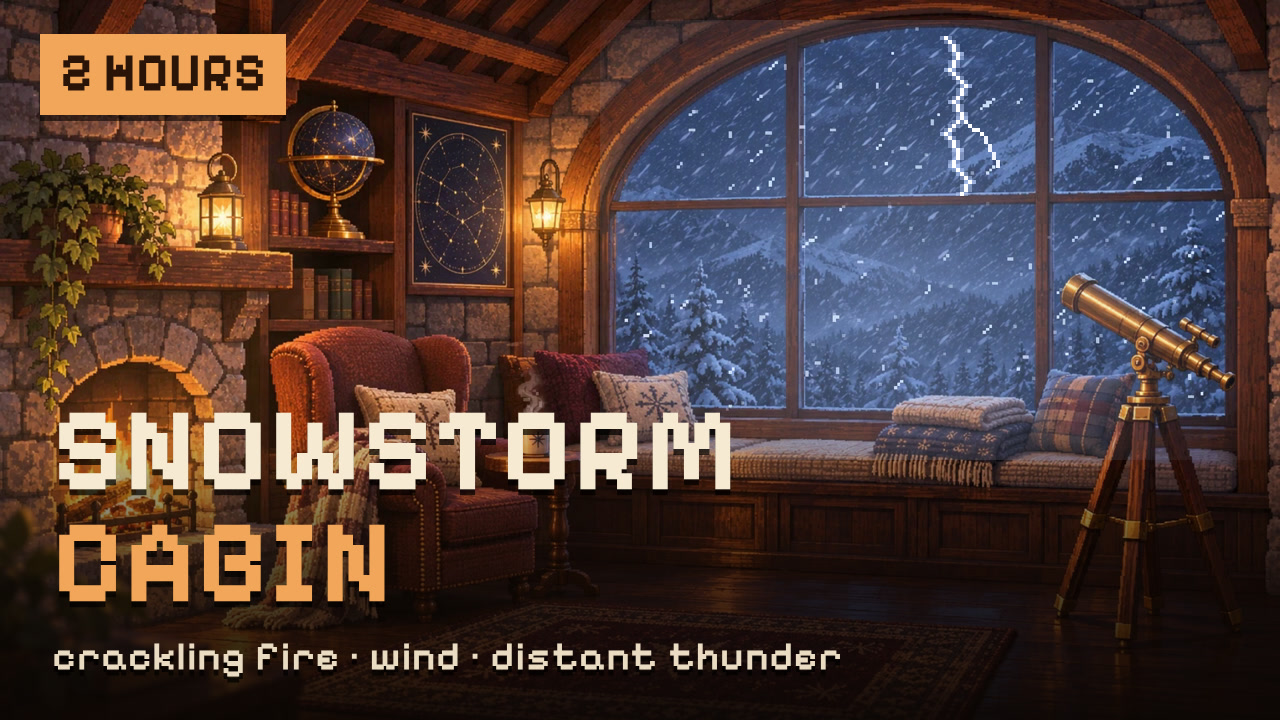
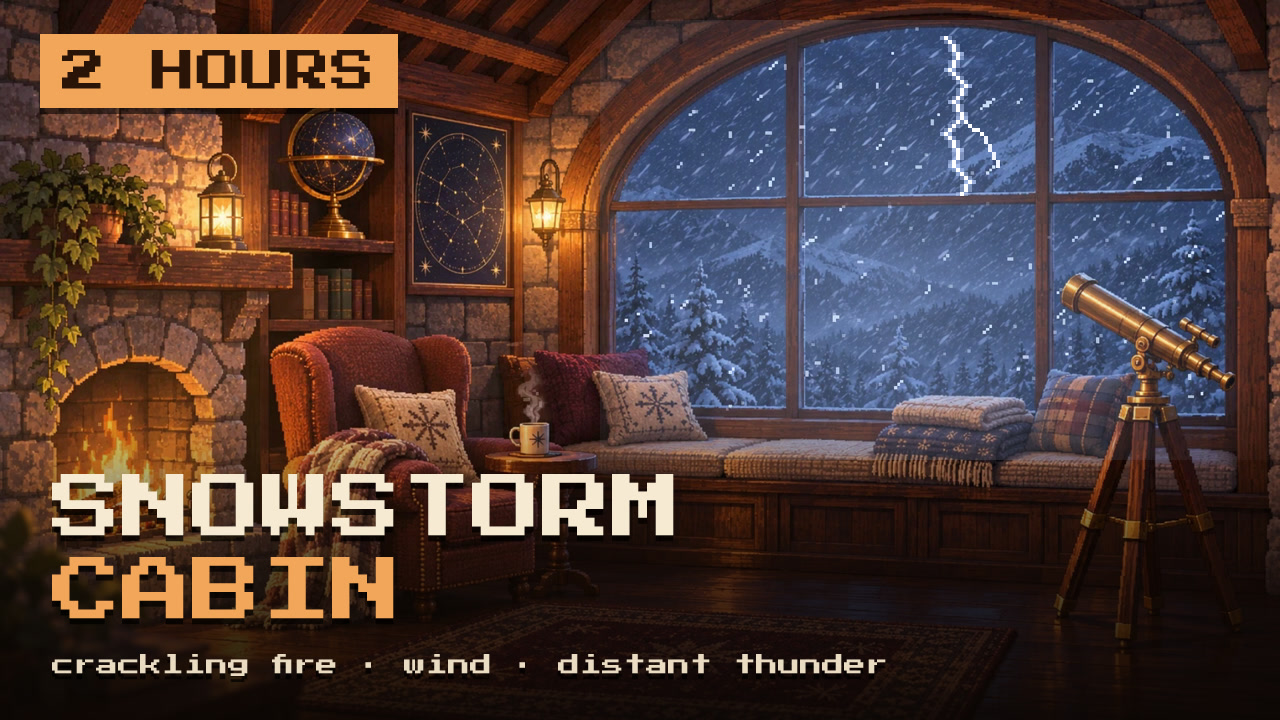
Thumbnails: legible pixel font for the badge, titles and sound line
The previous pixel font made 2 read as 8, B as G and C as O at small
sizes. All three thumbnails re-rendered.

Claude-Session: https://claude.ai/code/session_01VuAxVZNSoXwkeJokJbncck

Changed region(s): [[0.0312, 0.55, 0.6875, 0.9472], [0.0312, 0.0306, 0.3125, 0.1833]]

diff --git a/channel/thumbnail-template/thumb.html b/channel/thumbnail-template/thumb.html
@@ -1,14 +1,14 @@
 <!doctype html><html><head><meta charset="utf-8">
-<link rel="stylesheet" href="https://fonts.googleapis.com/css2?family=Pixelify+Sans:wght@600;700&display=swap">
+<link rel="stylesheet" href="https://fonts.googleapis.com/css2?family=Pixelify+Sans:wght@600;700&family=Press+Start+2P&family=Silkscreen:wght@400;700&display=swap">
 <style>
 html,body{margin:0;width:1280px;height:720px;overflow:hidden;background:#0a0d14}
 .bg{position:absolute;left:0;top:0;width:1280px;height:720px;background-repeat:no-repeat}
 canvas{position:absolute;left:0;top:0;width:1280px;height:720px;image-rendering:pixelated}
 .shade{position:absolute;left:0;top:0;width:1280px;height:720px;background:radial-gradient(ellipse 820px 400px at 300px 150px,rgba(8,8,10,.86) 0%,rgba(8,8,10,.6) 45%,rgba(8,8,10,0) 100%)}
-.txt{position:absolute;left:44px;top:132px;font-family:"Pixelify Sans",monospace;color:#f6ead2;text-shadow:0 6px 0 rgba(0,0,0,.7)}
-.big{font-size:104px;line-height:.95;font-weight:700}
-.sub{font-size:36px;font-weight:600;color:#eadcc2;margin-top:14px;letter-spacing:.03em}
-.badge{position:absolute;top:30px;left:40px;font-family:"Pixelify Sans",monospace;font-weight:700;font-size:50px;color:#22140a;padding:6px 18px 10px;box-shadow:0 6px 0 rgba(0,0,0,.55)}
+.txt{position:absolute;left:44px;top:150px;font-family:"Pixelify Sans",monospace;color:#f6ead2;text-shadow:0 6px 0 rgba(0,0,0,.7)}
+.big{font-family:"Press Start 2P",monospace;font-size:70px;line-height:1.18}
+.sub{font-family:"Press Start 2P",monospace;font-size:22px;line-height:1.3;color:#eadcc2;margin-top:18px}
+.badge{position:absolute;top:30px;left:40px;font-family:"Press Start 2P",monospace;font-size:44px;line-height:1;letter-spacing:.02em;color:#1c1008;padding:16px 22px 14px;box-shadow:0 6px 0 rgba(0,0,0,.55)}
 </style></head><body>
 <div class="bg" id="bg"></div><canvas id="c" width="320" height="180"></canvas><div class="shade"></div>
 <div class="badge" id="badge">2 HOURS</div>

diff --git a/cozy-cabin/youtube/thumb.html b/cozy-cabin/youtube/thumb.html
@@ -1,15 +1,15 @@
 <!doctype html><html><head><meta charset="utf-8">
-<link rel="stylesheet" href="https://fonts.googleapis.com/css2?family=Pixelify+Sans:wght@600;700&display=swap">
+<link rel="stylesheet" href="https://fonts.googleapis.com/css2?family=Pixelify+Sans:wght@600;700&family=Press+Start+2P&family=Silkscreen:wght@400;700&display=swap">
 <style>
 html,body{margin:0;width:1280px;height:720px;overflow:hidden;background:#0a0d18}
 .bg{position:absolute;inset:0;background:url(bg.png) center/cover}
 canvas{position:absolute;left:0;top:0;width:1280px;height:720px;image-rendering:pixelated}
 .shade{position:absolute;left:0;right:0;bottom:0;height:330px;background:linear-gradient(to top,rgba(10,6,4,.92) 0%,rgba(10,6,4,.7) 45%,rgba(10,6,4,0) 100%)}
 .txt{position:absolute;left:52px;bottom:40px;font-family:"Pixelify Sans",monospace;color:#f6ead2;text-shadow:0 6px 0 rgba(0,0,0,.7)}
-.big{font-size:118px;line-height:.95;font-weight:700;letter-spacing:.01em}
+.big{font-family:"Press Start 2P",monospace;font-size:70px;line-height:1.18}
 .big span{color:#f2a65a}
-.sub{font-size:40px;font-weight:600;color:#eadcc2;margin-top:14px;letter-spacing:.03em}
-.badge{position:absolute;top:34px;left:40px;font-family:"Pixelify Sans",monospace;font-weight:700;font-size:54px;color:#2a1408;background:#f2a65a;padding:6px 20px 10px;box-shadow:0 6px 0 rgba(0,0,0,.55)}
+.sub{font-family:"Press Start 2P",monospace;font-size:22px;line-height:1.3;color:#eadcc2;margin-top:18px}
+.badge{position:absolute;top:34px;left:40px;font-family:"Press Start 2P",monospace;font-size:44px;line-height:1;letter-spacing:.02em;color:#2a1408;background:#f2a65a;padding:16px 22px 14px;box-shadow:0 6px 0 rgba(0,0,0,.55)}
 </style></head><body>
 <div class="bg"></div><canvas id="c" width="320" height="180"></canvas><div class="shade"></div>
 <div class="badge">2 HOURS</div>

diff --git a/channel/thumbnail-template/shot.js b/channel/thumbnail-template/shot.js
@@ -2,7 +2,7 @@ const { chromium } = require('playwright');
 (async () => {
   const [dir, out, cfg] = process.argv.slice(2);
   const b = await chromium.launch(); const p = await b.newPage({ viewport: { width: 1280, height: 720 } });
-  await p.goto('file://' + dir + '/thumb.html#' + encodeURIComponent(cfg)); await p.waitForTimeout(2500);
-  if (!(await p.evaluate(() => document.fonts.check('700 104px "Pixelify Sans"')))) throw new Error('font');
+  await p.goto('file://' + dir + '/thumb.html#' + encodeURIComponent(cfg)); await p.waitForTimeout(1500); await p.evaluate(() => Promise.all(['44px "Press Start 2P"', '700 104px "Pixelify Sans"'].map(f => document.fonts.load(f)))); await p.waitForTimeout(500);
+  if (!(await p.evaluate(() => document.fonts.check('700 104px "Pixelify Sans"') && document.fonts.check('44px "Press Start 2P"')))) throw new Error('font');
   await p.screenshot({ path: dir + '/' + out }); await b.close();
 })();

diff --git a/cozy-cabin/youtube/shot.js b/cozy-cabin/youtube/shot.js
@@ -1,5 +1,5 @@
 const { chromium } = require('playwright');
 (async()=>{const b=await chromium.launch();const p=await b.newPage({viewport:{width:1280,height:720}});
-await p.goto('file://'+process.argv[2]+'/thumb.html');await p.waitForTimeout(2500);
-console.log('font',await p.evaluate(()=>document.fonts.check('700 118px "Pixelify Sans"')));
+await p.goto('file://'+process.argv[2]+'/thumb.html');await p.waitForTimeout(1500); await p.evaluate(() => Promise.all(['44px "Press Start 2P"', '700 104px "Pixelify Sans"'].map(f => document.fonts.load(f)))); await p.waitForTimeout(500);
+console.log('font',await p.evaluate(()=>document.fonts.check('700 118px "Pixelify Sans"') && document.fonts.check('44px "Press Start 2P"')));
 await p.screenshot({path:process.argv[2]+'/thumb.png'});await b.close();})();
